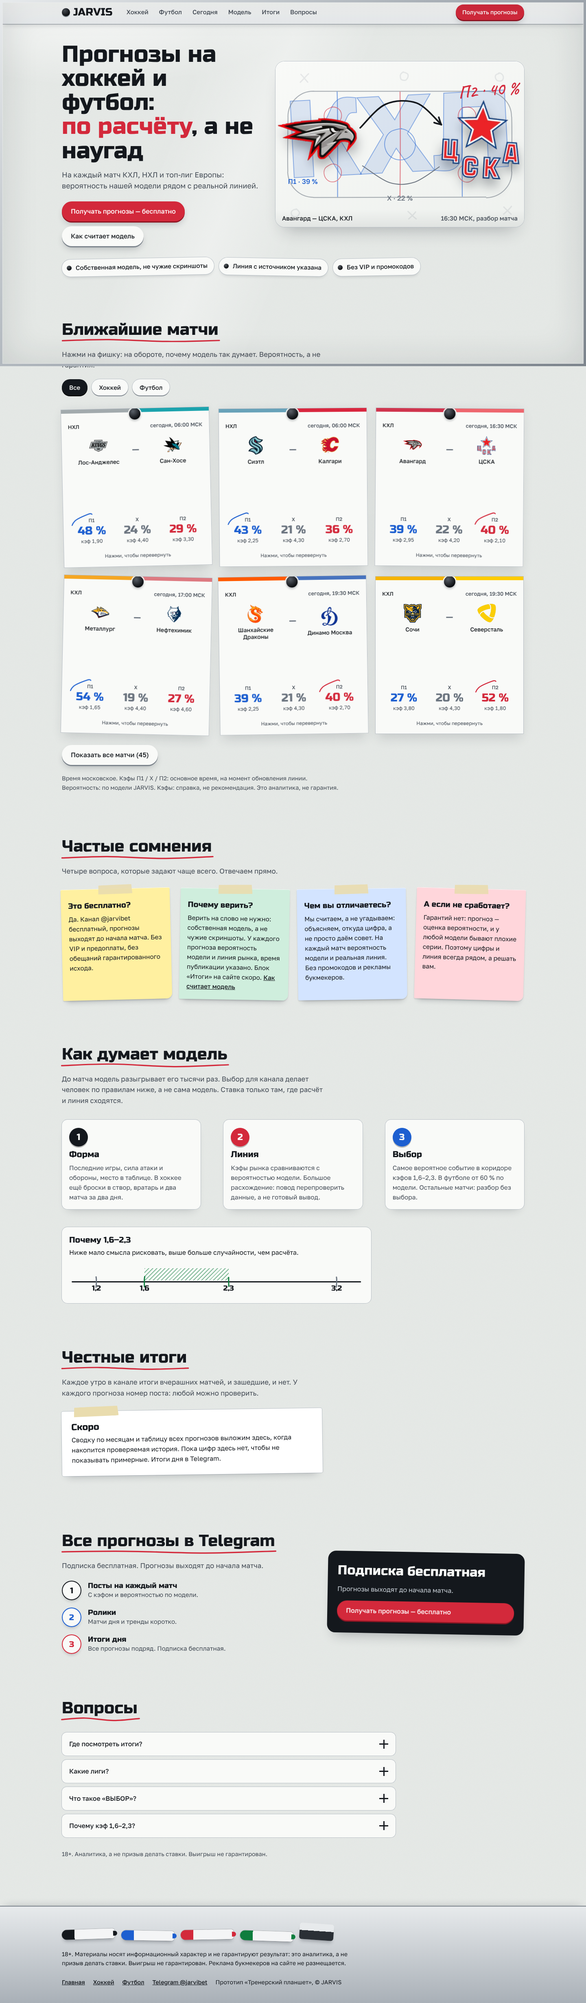
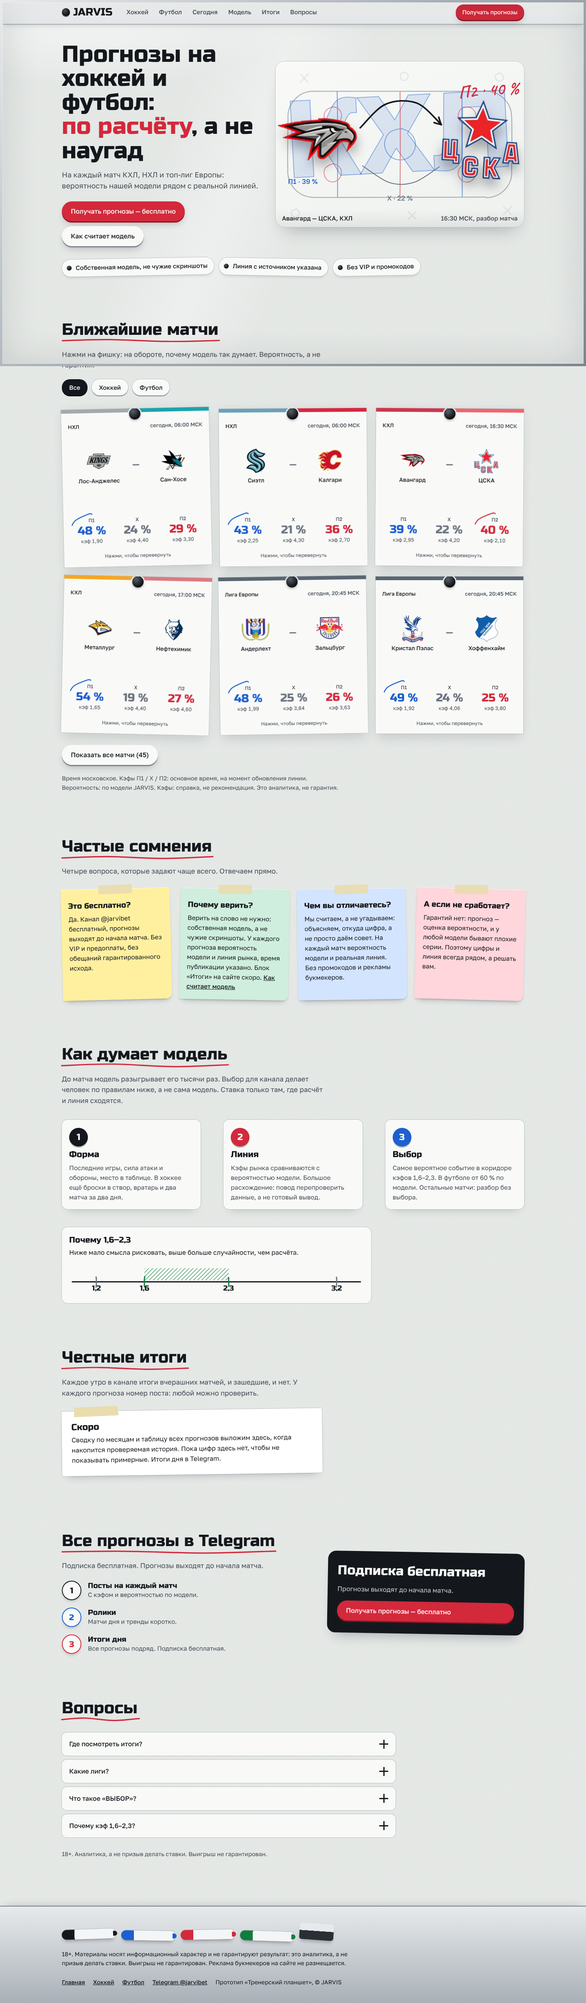
Тренерский планшет: страницы хоккея и матча, снимки
Claude-Session: https://claude.ai/code/session_018beMsGW2KNWUfPTL8TDXYR

diff --git a/team/site/v3a/proto/board/hockey.html b/team/site/v3a/proto/board/hockey.html
@@ -1,0 +1,73 @@
+<!doctype html>
+<html lang="ru">
+<head>
+<meta charset="utf-8">
+<meta name="viewport" content="width=device-width,initial-scale=1">
+<title>Хоккей: матчи КХЛ и НХЛ и прогнозы модели | JARVIS</title>
+<meta name="description" content="Матчи КХЛ и НХЛ, вероятности модели рядом с линией, аналитическая таблица. Бесплатно.">
+<meta name="theme-color" content="#e8ebe8">
+<link rel="icon" href="../../favicon.svg">
+<link rel="stylesheet" href="board.css">
+<script>try{if(sessionStorage.getItem('jvboard')){sessionStorage.removeItem('jvboard');document.documentElement.classList.add('arrive')}}catch(e){}</script>
+</head>
+<body data-page="hockey">
+<a class="skip" href="#main">К содержанию</a>
+<div class="lamp" aria-hidden="true"></div><div class="frame" aria-hidden="true"></div>
+<header class="rail"><div class="rail-in">
+<a class="logo" href="index.html" aria-label="JARVIS, главная"><i></i>JARVIS</a>
+<nav class="nav" aria-label="Разделы"><a href="#sevodnya">Матчи</a><a href="#leagues">Лиги и клубы</a><a href="#sheet">Аналитика</a><a href="#model">Модель</a><a href="#results">Итоги</a><a href="#faq">Вопросы</a></nav>
+<a class="btn btn-sm" href="https://t.me/jarvibet">Получать прогнозы</a>
+</div></header>
+<div class="tape" aria-label="Матчи дня"><div class="tape-run"></div></div>
+<main id="main">
+<section class="hero" style="padding-bottom:20px"><div class="wrap"><div class="top-grid">
+<div class="dayblock"><h1>Хоккей: КХЛ и НХЛ</h1>
+<p class="lead" style="margin-top:0">Прогноз на каждый матч от собственной модели. КХЛ днём, НХЛ ночью по Москве. Бесплатно, без VIP.</p>
+<div class="cta-row" style="margin-top:6px"><a class="btn" href="https://t.me/jarvibet">Получать прогнозы — бесплатно</a></div>
+<div class="clock" data-t="2026-11-05 16:30"><span class="l">До матча дня</span><span class="num">--:--:--</span></div>
+<div class="stats"><div class="stat"><span class="num" id="st-all" data-count="0">0</span><small>матчей в ближайшие дни</small></div><div class="stat"><span class="num" id="st-line" data-count="0">0</span><small>с линией и расчётом</small></div><div class="stat"><span class="num" id="st-lg" data-count="2">2</span><small>лиги</small></div></div>
+<p class="credit">Посты с прогнозами выходят в канале: КХЛ до 08:00 МСК, НХЛ до 14:00.</p></div>
+<div><h2 class="h2" style="font-size:clamp(1.3rem,3vw,1.7rem)">Матч дня</h2><div class="deck" id="feat" style="grid-template-columns:minmax(0,1fr);margin-top:20px;max-width:440px"><noscript><p><a href="match.html">Авангард — ЦСКА, 16:30 МСК: модель 39 / 22 / 40 %</a></p></noscript></div></div>
+</div></div></section>
+<section id="sevodnya"><div class="wrap"><h2 class="h2">Сегодня на льду</h2>
+<p class="lead">Матчи дня КХЛ и НХЛ. Нажми на фишку: расчёт модели, тотал и кэфы на обороте.</p>
+<div class="filters" id="chips" role="group" aria-label="Фильтр матчей"><button class="chip" data-f="all" aria-pressed="true">Все</button><button class="chip" data-f="khl" aria-pressed="false">КХЛ</button><button class="chip" data-f="nhl" aria-pressed="false">НХЛ</button></div><div class="deck" id="deck"></div>
+<p style="margin-top:22px"><button class="btn btn-ghost" id="more" hidden>Показать все</button></p><p class="legend">Время московское. Кэфы П1 / Х / П2: основное время, на момент обновления линии. Вероятность: по модели JARVIS. Кэфы: справка, не рекомендация. Это аналитика, не гарантия.</p></div></section>
+<section id="leagues"><div class="wrap"><h2 class="h2">Лиги и клубы</h2>
+<p class="lead">Две лиги, одна модель. КХЛ днём и вечером, НХЛ ночью: ночные матчи собраны в один игровой день.</p>
+<div class="leagues"><div class="lg"><header><img src="../../assets/lg/khl.webp" alt="" width="44" height="44"><h3>КХЛ</h3></header><div class="mags" id="mags-khl"></div></div>
+<div class="lg"><header><img src="../../assets/lg/nhl.webp" alt="" width="44" height="44"><h3>НХЛ</h3></header><div class="mags" id="mags-nhl"></div></div></div>
+<p class="credit" style="margin-top:14px">Эмблемы собственность клубов, показаны для навигации.</p></div></section>
+<section id="sheet"><div class="wrap"><h2 class="h2">Аналитическая таблица</h2>
+<p class="lead">Для тех, кто считает сам: все матчи КХЛ и НХЛ в одном месте, форма команд, вероятности модели и кэфы. Обновляется каждый игровой день.</p>
+<div class="sheet"><div class="tabs" id="tabs" role="tablist" aria-label="Листы таблицы"></div><div class="panel" id="panel" role="tabpanel"><h3>Прогнозы</h3><p>Все матчи ближайших дней на одном листе.</p></div></div>
+<div class="access"><a class="btn" href="https://t.me/jarvibet">Хочу таблицу</a><small>Оплата появится скоро. Сейчас доступ через Telegram.</small></div></div></section>
+<section id="forecast"><div class="wrap"><h2 class="h2">Прогноз модели</h2>
+<p class="lead">Матчи КХЛ и НХЛ ближайших дней: сверху вероятности модели, снизу доля линии без маржи. Кэфы: справка, не рекомендация.</p>
+<div class="key"><span><i class="h"></i>П1, хозяева</span><span><i class="d"></i>Х, ничья</span><span><i class="a"></i>П2, гости</span></div>
+<div class="fc" id="fc"></div><p style="margin-top:20px"><button class="btn btn-ghost" id="fc-more">Показать все матчи</button></p></div></section>
+<section id="model"><div class="wrap"><h2 class="h2">Как думает модель</h2>
+<p class="lead">До матча модель разыгрывает его тысячи раз. Выбор для канала делает человек по правилам ниже, а не сама модель. Ставка только там, где расчёт и линия сходятся.</p>
+<div class="play"><svg class="route" aria-hidden="true"></svg>
+<div class="step"><span class="tok">1</span><h3>Форма</h3><p>Последние игры, сила атаки и обороны, место в таблице. В хоккее ещё броски в створ, вратарь и два матча за два дня.</p></div>
+<div class="step"><span class="tok">2</span><h3>Линия</h3><p>Кэфы рынка сравниваются с вероятностью модели. Большое расхождение: повод перепроверить данные, а не готовый вывод.</p></div>
+<div class="step"><span class="tok">3</span><h3>Выбор</h3><p>Самое вероятное событие в коридоре кэфов 1,6–2,3. В футболе от 60 % по модели. Остальные матчи: разбор без выбора.</p></div></div>
+<div class="corridor"><h3>Почему 1,6–2,3</h3><p>Ниже мало смысла рисковать, выше больше случайности, чем расчёта.</p>
+<div class="axis"><svg aria-hidden="true"></svg><span class="zone" style="left:25%;width:29.2%"></span>
+<span class="tk" style="left:8.3%">1,2</span><span class="tk" style="left:25%">1,6</span><span class="tk" style="left:54.2%">2,3</span><span class="tk" style="left:91.7%">3,2</span></div></div>
+</div></section><section id="results"><div class="wrap"><h2 class="h2">Честные итоги</h2>
+<p class="lead">Каждое утро в канале итоги вчерашних матчей, и зашедшие, и нет. У каждого прогноза номер поста: любой можно проверить.</p>
+<div class="soon"><h3>Скоро</h3><p>Сводку по месяцам и таблицу всех прогнозов выложим здесь, когда накопится проверяемая история. Пока цифр здесь нет, чтобы не показывать примерные. Итоги дня в Telegram.</p></div></div></section><section id="doubts"><div class="wrap"><h2 class="h2">Частые сомнения</h2><p class="lead">Коротко о главном.</p><ul class="notes"><li class="note"><h3>Это бесплатно?</h3><p>Да. Канал @jarvibet бесплатный, прогнозы выходят до начала матча. Без VIP и предоплаты, без обещаний гарантированного исхода.</p></li><li class="note"><h3>Почему верить?</h3><p>Верить на слово не нужно: собственная модель, а не чужие скриншоты. У каждого прогноза вероятность модели и линия рынка, время публикации указано. Блок «Итоги» на сайте скоро. <a href="index.html#model">Как считает модель</a></p></li><li class="note"><h3>Чем вы отличаетесь?</h3><p>Мы считаем, а не угадываем: объясняем, откуда цифра, а не просто даём совет. На каждый матч вероятность модели и реальная линия. Без промокодов и рекламы букмекеров.</p></li><li class="note"><h3>А если не сработает?</h3><p>Гарантий нет: прогноз — оценка вероятности, и у любой модели бывают плохие серии. Поэтому цифры и линия всегда рядом, а решать вам.</p></li></ul></div></section><section id="tg"><div class="wrap"><div class="tg"><div><h2 class="h2">Все прогнозы в Telegram</h2><p class="lead">КХЛ до 08:00 МСК, НХЛ до 14:00, с кэфом и вероятностью. Ролики и итоги утром.</p>
+<div class="tg-list" style="margin-top:24px"><div class="player"><span class="tok">1</span><div><h3>Посты на каждый матч</h3><p>С кэфом и вероятностью по модели.</p></div></div>
+<div class="player"><span class="tok">2</span><div><h3>Ролики</h3><p>Матчи дня и тренды коротко.</p></div></div>
+<div class="player"><span class="tok">3</span><div><h3>Итоги дня</h3><p>Все прогнозы подряд. Подписка бесплатная.</p></div></div></div></div>
+<div class="big-cta"><h2>Подписка бесплатная</h2><p>Прогнозы выходят до начала матча.</p><a class="btn" href="https://t.me/jarvibet">Получать прогнозы — бесплатно</a></div></div></div></section><section id="faq"><div class="wrap"><h2 class="h2">Вопросы</h2><p class="lead">Футбол: топ-лиги Европы и Лига чемпионов, та же модель. <a href="../../football/index.html">Прогнозы на футбол</a></p><div class="faq"><details><summary>Где посмотреть итоги?</summary><div class="ans">Каждое утро в канале и здесь, в разделе «Итоги»: все прогнозы подряд, с номером поста и счётом матча.</div></details><details><summary>Какие лиги?</summary><div class="ans">Хоккей: КХЛ и НХЛ. Футбол: АПЛ, Ла Лига, Серия А, Бундеслига, Лига 1, Португалия и Лига чемпионов.</div></details><details><summary>Что такое «ВЫБОР»?</summary><div class="ans">Событие, у которого модель даёт от 60 % при кэфе от 1,6. Остальные матчи: разбор без выбора.</div></details><details><summary>Когда выходят прогнозы?</summary><div class="ans">КХЛ до 08:00 по Москве, НХЛ до 14:00. Ночные матчи НХЛ собраны в один игровой день.</div></details></div><p class="fine">18+. Аналитика, а не призыв делать ставки. Выигрыш не гарантирован.</p></div></section></main><footer class="tray"><div class="tray-in">
+<div class="mk-row" aria-hidden="true"><span class="marker"></span><span class="marker"></span><span class="marker"></span><span class="marker"></span><span class="eraser"></span></div>
+<p>18+. Материалы носят информационный характер и не гарантируют результат: это аналитика, а не призыв делать ставки. Выигрыш не гарантирован. Реклама букмекеров на сайте не размещается.</p>
+<p class="fl"><a href="index.html">Главная</a><a href="hockey.html">Хоккей</a><a href="../../football/index.html">Футбол</a><a href="https://t.me/jarvibet">Telegram @jarvibet</a><span>Прототип «Тренерский планшет», © JARVIS</span></p>
+</div></footer>
+<noscript><style>.tile,.note{transform:none}</style></noscript>
+<script src="../../data/today.js"></script><script src="../../data/model.js"></script><script src="../../data/lines.js"></script><script src="../../data/matchlinks.js"></script><script src="../../assets/club/themes.js"></script>
+<script src="vendor/gsap.min.js"></script><script src="vendor/DrawSVGPlugin.min.js"></script><script src="vendor/rough.js"></script>
+<script src="board.js"></script>
+</body></html>

diff --git a/team/site/v3a/proto/board/match.html b/team/site/v3a/proto/board/match.html
@@ -1,0 +1,58 @@
+<!doctype html>
+<html lang="ru">
+<head>
+<meta charset="utf-8">
+<meta name="viewport" content="width=device-width,initial-scale=1">
+<title>Авангард — ЦСКА: прогноз на матч 5 ноября 2026, КХЛ | JARVIS</title>
+<meta name="description" content="Авангард — ЦСКА, КХЛ, 5 ноября, 16:30 МСК. Вероятности по модели: 39 / 22 / 40 %. Форма команд и личные встречи.">
+<meta name="theme-color" content="#e8ebe8">
+<link rel="icon" href="../../favicon.svg">
+<link rel="stylesheet" href="board.css">
+<script>try{if(sessionStorage.getItem('jvboard')){sessionStorage.removeItem('jvboard');document.documentElement.classList.add('arrive')}}catch(e){}</script>
+</head>
+<body data-page="match">
+<a class="skip" href="#main">К содержанию</a>
+<div class="lamp" aria-hidden="true"></div><div class="frame" aria-hidden="true"></div>
+<header class="rail"><div class="rail-in">
+<a class="logo" href="index.html" aria-label="JARVIS, главная"><i></i>JARVIS</a>
+<nav class="nav" aria-label="Разделы"><a href="hockey.html">Хоккей</a><a href="../../football/index.html">Футбол</a><a href="#sevodnya">Сегодня</a><a href="#model">Модель</a><a href="#results">Итоги</a><a href="#faq">Вопросы</a></nav>
+<a class="btn btn-sm" href="https://t.me/jarvibet">Получать прогнозы</a>
+</div></header>
+<main id="main"><div class="wrap">
+<nav class="crumbs" aria-label="Путь"><a href="index.html">Главная</a><span>/</span><a href="hockey.html">Хоккей</a><span>/</span><a href="hockey.html#sevodnya">Прогноз на сегодня: КХЛ</a><span>/</span><span>Авангард — ЦСКА</span></nav>
+<div class="mhero"><span class="g1" aria-hidden="true">АВАНГАРД</span><span class="g2" aria-hidden="true">ЦСКА</span>
+<img class="em1" src="../../assets/em/avangard.webp" alt="" data-n="Авангард"><img class="em2" src="../../assets/em/cska.webp" alt="" data-n="ЦСКА">
+<div class="info"><h1 style="font:400 clamp(1.4rem,4vw,2.1rem)/1.05 var(--f-head)">Авангард — ЦСКА</h1><span>прогноз на матч 5 ноября</span><div class="clock" data-t="2026-11-05 16:30"><span class="l">До начала</span><span class="num" style="font-size:1.5rem">--:--:--</span></div></div></div>
+<dl class="facts"><div><dt>Когда</dt><dd>5 ноября, четверг<small>16:30 МСК</small></dd></div><div><dt>Арена</dt><dd>«G-Drive Арена», Омск<small>вместимость 12 011</small></dd></div><div><dt>Турнир</dt><dd>КХЛ</dd></div></dl>
+<p class="note-t">Данные обновлены 05.11 в 04:23 МСК.</p>
+<section style="padding-top:36px"><h2 class="h2">Расчёт модели</h2>
+<p class="lead">Площадка делится на три зоны по вероятностям исходов. Толщина стрелки атаки: ожидаемые голы команды.</p>
+<div class="board"><div class="rink"><svg aria-hidden="true"></svg>
+<div class="z h"><span class="num" data-v="39">39</span><small>П1, хозяева</small></div><div class="z d"><span class="num" data-v="22">22</span><small>Х, ничья</small></div><div class="z a"><span class="num" data-v="40">40</span><small>П2, гости</small></div>
+<span class="lam" style="left:30%;top:2%">Авангард: 2,3 гола</span><span class="lam" style="left:62%;top:86%">ЦСКА: 2,4 гола</span></div>
+<div class="legend3"><div><b>39 %</b>П1, победа хозяев</div><div><b>22 %</b>Х, ничья в основное время</div><div><b>40 %</b>П2, победа гостей</div></div></div>
+<p class="plate"><span>Тотал 4,5: больше</span><span class="num">50 %</span><span class="hand">почти пополам</span></p>
+<p class="cap2">Ожидаемые голы 2,3 : 2,4. Цифры считает модель по данным сайта, а не эксперт. Это вероятности, а не гарантия исхода. <a href="index.html#model">Как считает модель</a>, <a href="../../glossary.html">словарь терминов</a>.</p></section>
+<section style="padding-top:20px"><h2 class="h2">Кэфы на матч</h2>
+<div class="odds"><div class="od"><small>П1</small><span class="num">2,95</span></div><div class="od"><small>Х</small><span class="num">4,20</span></div><div class="od"><small>П2</small><span class="num">2,10</span></div><div class="od"><small>Тотал 4,5 больше</small><span class="num">1,77</span></div><div class="od"><small>Тотал 4,5 меньше</small><span class="num">2,05</span></div></div>
+<p class="cap2">Основное время; кэфы на момент последнего обновления данных, до матча они меняются. Это справка, не рекомендация.</p></section>
+<section class="brief" style="padding-top:20px"><h2 class="h2">Коротко о матче</h2>
+<p>По таблице: Авангард 7-е место, 22 очка за 20 матчей; ЦСКА 1-е место, 34 очка за 22 матча. В последних 5 матчах: Авангард 2 победы, 3 поражения; ЦСКА 4 победы, 1 поражение. Шансы по модели близки: Авангард 39 %, ЦСКА 40 %. Модель ждёт около 4,7 гола в матче: 2,3 у хозяев и 2,4 у гостей. Очные встречи из данных (4): Авангард 3 победы, ЦСКА 1 победа. Это оценка вероятностей по данным, а не обещание исхода.</p></section>
+<section style="padding-top:20px"><h2 class="h2">Форма: последние 5 матчей</h2>
+<div class="forms"><div class="form"><h3><img src="../../assets/em/avangard.webp" alt="" data-n="Авангард">Авангард</h3><div id="form-h"></div></div><div class="form"><h3><img src="../../assets/em/cska.webp" alt="" data-n="ЦСКА">ЦСКА</h3><div id="form-a"></div></div></div></section>
+<section style="padding-top:20px"><h2 class="h2">Личные встречи</h2><div class="marked"><table><thead><tr><th>Дата</th><th>Хозяева</th><th class="r">Счёт</th><th>Гости</th></tr></thead><tbody><tr><td>04.03.2026</td><td>ЦСКА</td><td class="r">0:2</td><td>Авангард</td></tr><tr><td>15.01.2026</td><td>Авангард</td><td class="r">2:1</td><td>ЦСКА</td></tr><tr><td>04.02.2025</td><td>ЦСКА</td><td class="r">2:1 Б</td><td>Авангард</td></tr><tr><td>17.01.2025</td><td>Авангард</td><td class="r">4:0</td><td>ЦСКА</td></tr></tbody></table></div><p class="note-t">Последние встречи из данных сайта; ОТ и Б: овертайм и буллиты.</p></section>
+<section style="padding-top:20px"><h2 class="h2">Положение в таблице</h2><div class="marked"><table><thead><tr><th>Команда</th><th class="r">Место</th><th class="r">И</th><th class="r">В</th><th class="r">П</th><th class="r">Голы</th><th class="r">Очки</th></tr></thead><tbody><tr><td>Авангард</td><td class="r">7</td><td class="r">20</td><td class="r">10</td><td class="r">10</td><td class="r">40:47</td><td class="r">22</td></tr><tr><td>ЦСКА</td><td class="r">1</td><td class="r">22</td><td class="r">17</td><td class="r">5</td><td class="r">73:42</td><td class="r">34</td></tr></tbody></table></div><p class="note-t">И: игры, В: победы, П: поражения (в основное и дополнительное время).</p></section>
+<section style="padding-top:20px"><h2 class="h2">Другие матчи КХЛ в этот день</h2><div class="others" id="others"></div>
+<p class="links"><a href="../../khl/avangard/">Страница клуба: Авангард</a><a href="../../khl/cska/">Страница клуба: ЦСКА</a><a href="hockey.html">Лига: КХЛ</a><a href="hockey.html#sevodnya">Все матчи дня колодой</a></p>
+<p style="margin-top:26px"><a class="btn" href="https://t.me/jarvibet">Все прогнозы дня в Telegram</a></p>
+<p class="fine">Материалы носят информационный характер и не гарантируют результат. Реклама букмекеров на сайте не размещается. Сайт только для совершеннолетних (18+).</p></section>
+</div></main><footer class="tray"><div class="tray-in">
+<div class="mk-row" aria-hidden="true"><span class="marker"></span><span class="marker"></span><span class="marker"></span><span class="marker"></span><span class="eraser"></span></div>
+<p>18+. Материалы носят информационный характер и не гарантируют результат: это аналитика, а не призыв делать ставки. Выигрыш не гарантирован. Реклама букмекеров на сайте не размещается.</p>
+<p class="fl"><a href="index.html">Главная</a><a href="hockey.html">Хоккей</a><a href="../../football/index.html">Футбол</a><a href="https://t.me/jarvibet">Telegram @jarvibet</a><span>Прототип «Тренерский планшет», © JARVIS</span></p>
+</div></footer>
+<noscript><style>.tile,.note{transform:none}</style></noscript>
+<script src="../../data/today.js"></script><script src="../../data/model.js"></script><script src="../../data/lines.js"></script><script src="../../data/matchlinks.js"></script><script src="../../assets/club/themes.js"></script>
+<script src="vendor/gsap.min.js"></script><script src="vendor/DrawSVGPlugin.min.js"></script><script src="vendor/rough.js"></script>
+<script src="board.js"></script>
+</body></html>

diff --git a/team/site/v3a/proto/board/board.js b/team/site/v3a/proto/board/board.js
@@ -20,6 +20,7 @@ const esc = s => String(s).replace(/[&<>"]/g, c => ({ '&': '&amp;', '<': '&lt;',
 const T = W.JV_TODAY || { matches: [], days: [] }, M = W.JV_MODEL || {}, L = W.JV_LINES || {}, LK = W.JV_MATCHLINKS || {};
 const CS = W.CLUB_SET || {};
 const LG = { khl: 'КХЛ', nhl: 'НХЛ', epl: 'АПЛ', laliga: 'Ла Лига', seriea: 'Серия А', bundesliga: 'Бундеслига', ligue1: 'Лига 1', ucl: 'Лига чемпионов', uel: 'Лига Европы', rpl: 'РПЛ' };
+const isHockeyLg = l => l === 'khl' || l === 'nhl';
 const isHockey = m => m.lg === 'khl' || m.lg === 'nhl';
 const clubColor = id => (CS[id] && CS[id].a1) || '#5b6572';
 const clubDark = id => (CS[id] && CS[id].dk) || '#2a2f35';
@@ -35,7 +36,7 @@ function share(l) {
   const i = [1 / l.p1, 1 / l.x, 1 / l.p2], s = i[0] + i[1] + i[2];
   return i.map(v => v / s);
 }
-const emb = id => `<img src="../../assets/em/${esc(id)}.webp" alt="" width="52" height="52" loading="lazy" decoding="async">`;
+const emb = (id, lg) => `<img src="../../assets/${lg && !isHockeyLg(lg) ? 'fc' : 'em'}/${esc(id)}.webp" alt="" width="52" height="52" loading="lazy" decoding="async">`;
 const ini = n => `<span class="ini" aria-hidden="true">${esc(n.trim().charAt(0))}</span>`;
 D.addEventListener('error', e => {
   const t = e.target;
@@ -132,7 +133,7 @@ function tileHTML(m, i) {
   <div class="tile-in">
     <div class="face front" style="--ca:${clubColor(m.h)};--cb:${clubColor(m.a)}"><i class="band"></i><i class="knob"></i>
       <div class="meta"><b>${LG[m.lg] || m.lg.toUpperCase()}</b><span>${dayLabel(m)}, ${timeOf(m)} МСК</span></div>
-      <div class="vs"><div class="tm">${emb(m.h).replace('alt=""', 'alt="" data-n="' + esc(m.hn) + '"')}<span>${esc(m.hn)}</span></div><span class="dash">—</span><div class="tm">${emb(m.a).replace('alt=""', 'alt="" data-n="' + esc(m.an) + '"')}<span>${esc(m.an)}</span></div></div>
+      <div class="vs"><div class="tm">${emb(m.h, m.lg).replace('alt=""', 'alt="" data-n="' + esc(m.hn) + '"')}<span>${esc(m.hn)}</span></div><span class="dash">—</span><div class="tm">${emb(m.a, m.lg).replace('alt=""', 'alt="" data-n="' + esc(m.an) + '"')}<span>${esc(m.an)}</span></div></div>
       <div class="pr">${cell('h', 'П1', mod.p1, ln && ln.p1)}${cell('d', 'Х', mod.x, ln && ln.x)}${cell('a', 'П2', mod.p2, ln && ln.p2)}</div>
       <p class="hint">Нажми, чтобы перевернуть</p>
     </div>
@@ -287,7 +288,7 @@ function countdown() {
   const z = n => String(n).padStart(2, '0');
   const tick = () => {
     const d = t0 - Date.now();
-    if (d <= 0) { out.textContent = d > -3 * 3600e3 ? 'идёт' : 'сыгран'; lab.textContent = d > -3 * 3600e3 ? 'Матч начался' : 'Матч дня'; return; }
+    if (d <= 0) { out.textContent = d > -3 * 3600e3 ? 'идёт' : 'сыгран'; lab.textContent = d > -3 * 3600e3 ? 'Матч начался' : 'Матч'; return; }
     const s = Math.floor(d / 1e3), dd = Math.floor(s / 86400);
     out.textContent = (dd ? dd + ' д ' : '') + z(Math.floor(s % 86400 / 3600)) + ':' + z(Math.floor(s % 3600 / 60)) + ':' + z(s % 60);
   };
@@ -374,7 +375,7 @@ function hockeyPage() {
     tabs.addEventListener('click', e => { const b = e.target.closest('button'); if (b) show(b.dataset.k); });
     show('fc');
   }
-  countdown();
+  countdown(); routes(); corridor();
 }
 
 /* ---------- главная ---------- */

diff --git a/team/site/v3a/proto/board/board.css b/team/site/v3a/proto/board/board.css
@@ -354,7 +354,7 @@ section{padding:56px 0}
 .rink{position:relative;aspect-ratio:800/340;width:100%}
 .rink>svg{position:absolute;inset:0;width:100%;height:100%;overflow:visible}
 .rink .z{position:absolute;top:0;bottom:0;display:flex;flex-direction:column;align-items:center;justify-content:center;text-align:center;pointer-events:none}
-.rink .z .num{font-size:clamp(1.6rem,6.4vw,3.6rem);line-height:1}
+.rink .z .num{font-size:clamp(1.6rem,6.4vw,3.6rem);line-height:1;background:rgba(249,250,248,.88);padding:2px 12px;border-radius:10px}
 .rink .z small{font-weight:600;font-size:clamp(.62rem,1.9vw,.95rem);line-height:1.15;margin-top:4px;background:rgba(249,250,248,.85);padding:1px 5px;border-radius:4px}
 .rink .z.h .num{color:var(--blue)}.rink .z.d .num{color:var(--pencil)}.rink .z.a .num{color:var(--red)}
 .rink .mg2{position:absolute;top:50%;width:13%;aspect-ratio:1;border-radius:50%;background:#fff;display:grid;place-items:center;transform:translate(-50%,-50%) rotate(var(--r,0deg));box-shadow:0 0 0 3px var(--c) inset,0 12px 16px -8px var(--sh);z-index:3;transition:transform .2s ease}
@@ -456,3 +456,7 @@ html.arrive::after{content:"";position:fixed;inset:0;background:var(--paper);z-i
   .face{padding:28px 14px 14px}
   .tray{margin-top:40px}
 }
+.top-grid>div:last-child{position:relative}
+.top-grid>div:last-child::before{content:"КХЛ";position:absolute;right:-2%;top:6%;font:400 clamp(7rem,20vw,16rem)/.8 var(--f-head);color:rgba(29,95,208,.1);-webkit-text-stroke:2px rgba(29,95,208,.4);transform:rotate(-4deg);pointer-events:none;z-index:0}
+.top-grid .tile,.top-grid .h2{position:relative;z-index:1}
+.stat{width:124px;height:124px}.stat small{font-size:11.5px}
